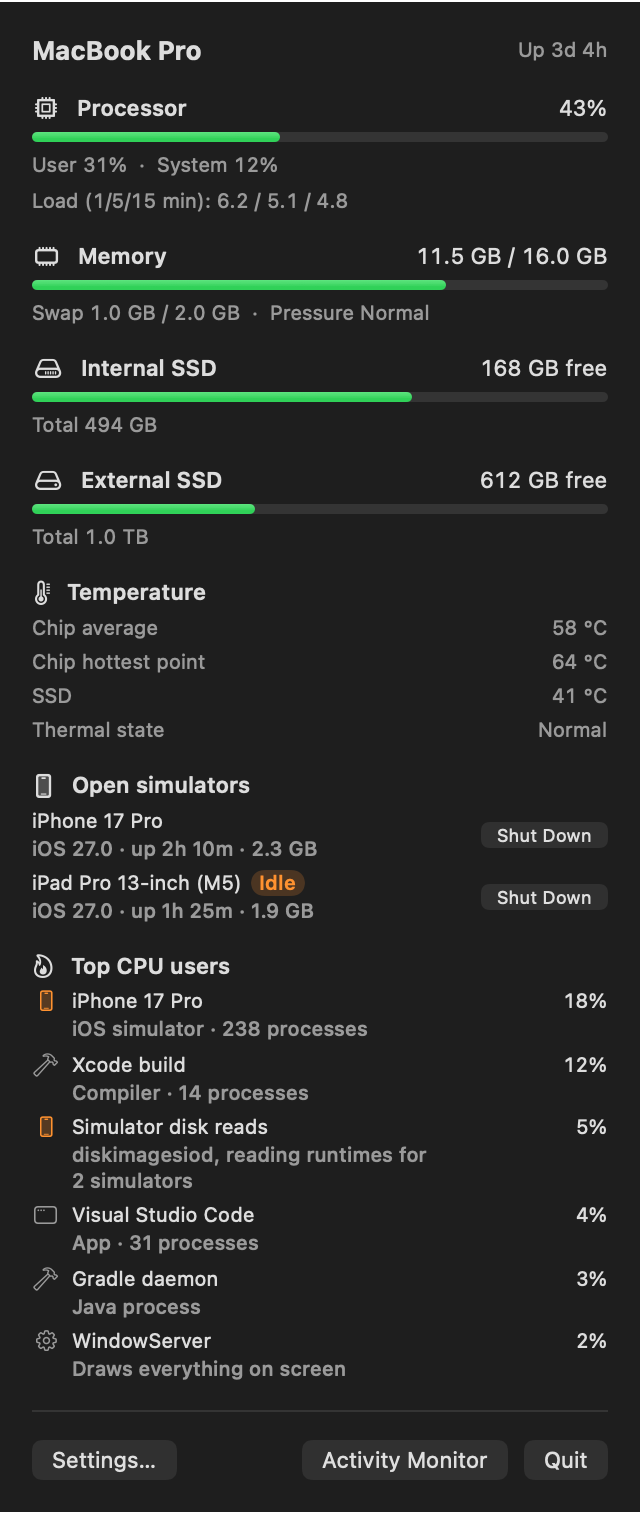
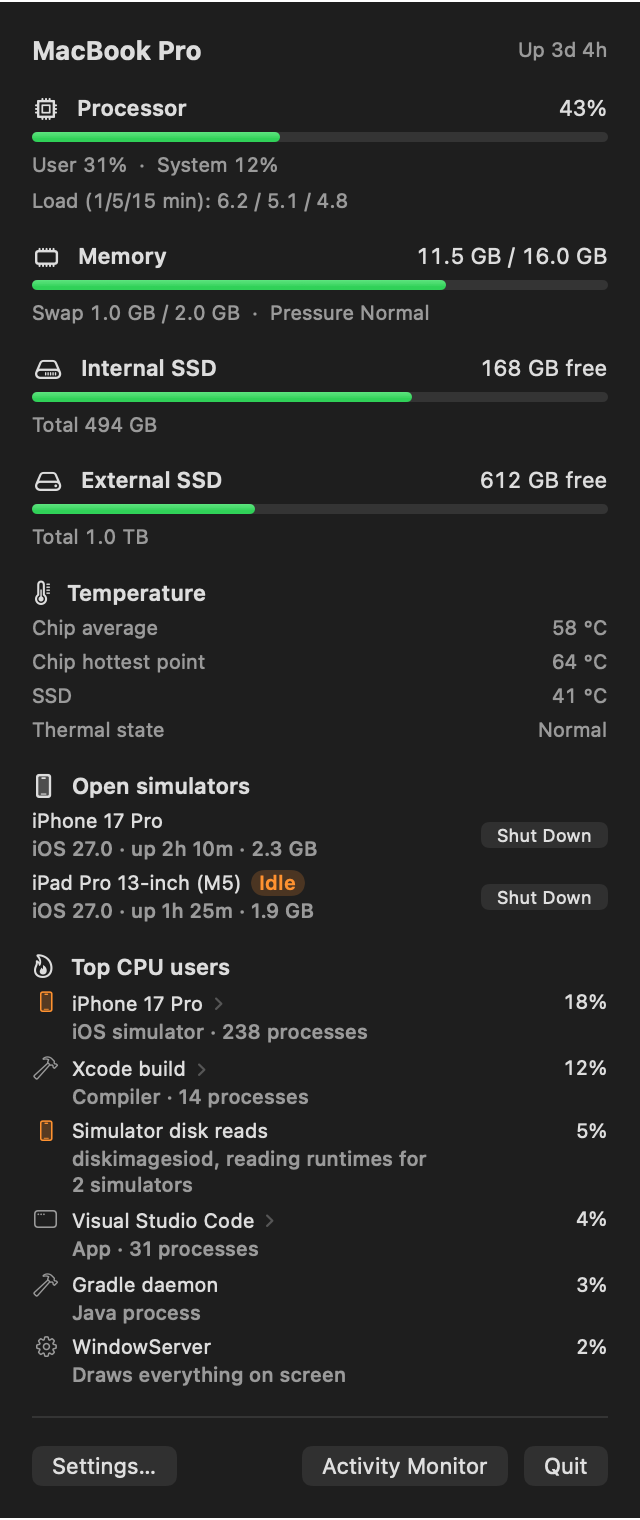
Release 1.2

diff --git a/docs/index.html b/docs/index.html
@@ -150,7 +150,7 @@
         </div>
         <div class="feature">
           <h3>Apps, not helpers</h3>
-          <p>Code Helper, WebKit and virtual machine processes are counted under the app that started them.</p>
+          <p>Code Helper, WebKit and virtual machine processes are counted under the app that started them. Click one to see its tabs, GPU and extensions.</p>
         </div>
         <div class="feature">
           <h3>Developer tools, named</h3>

diff --git a/README.md b/README.md
@@ -42,6 +42,7 @@ Requires macOS 14 or later. Temperatures need Apple Silicon; everything else als
   - app helpers are grouped under their app: "Code Helper (Plugin)" counts as Visual Studio Code, a virtual machine as the app that started it
   - Xcode builds, Gradle and Kotlin daemons, Maestro and Android emulators (with their AVD names) are named as such
   - common system services get a one-line explanation (`mds_stores`, `WindowServer`, `kernel_task` and others)
+  - click a line to see what it is made of: a browser's tabs, GPU and extensions (and whether one tab is doing the work), an Electron app's windows and Node.js processes, each compiler in an Xcode build, Node.js processes by the script they run
 
 Settings choose the menu bar columns, free space or percent used for the disk, °C or °F, and the refresh interval. English and Turkish.
 
